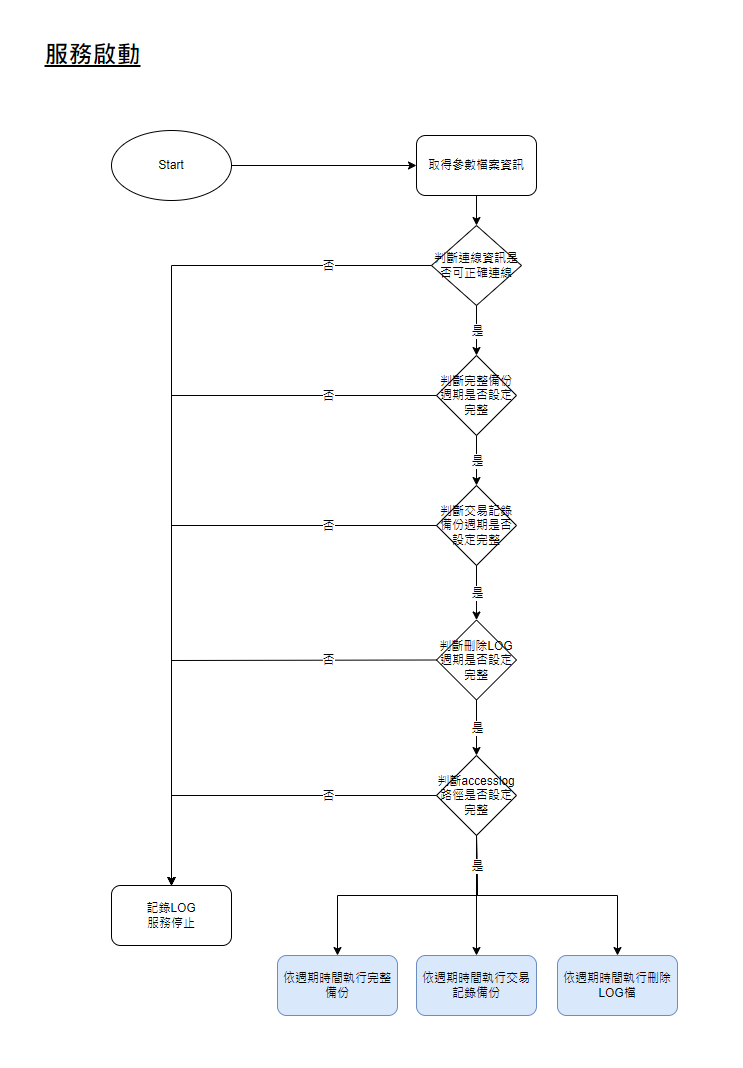
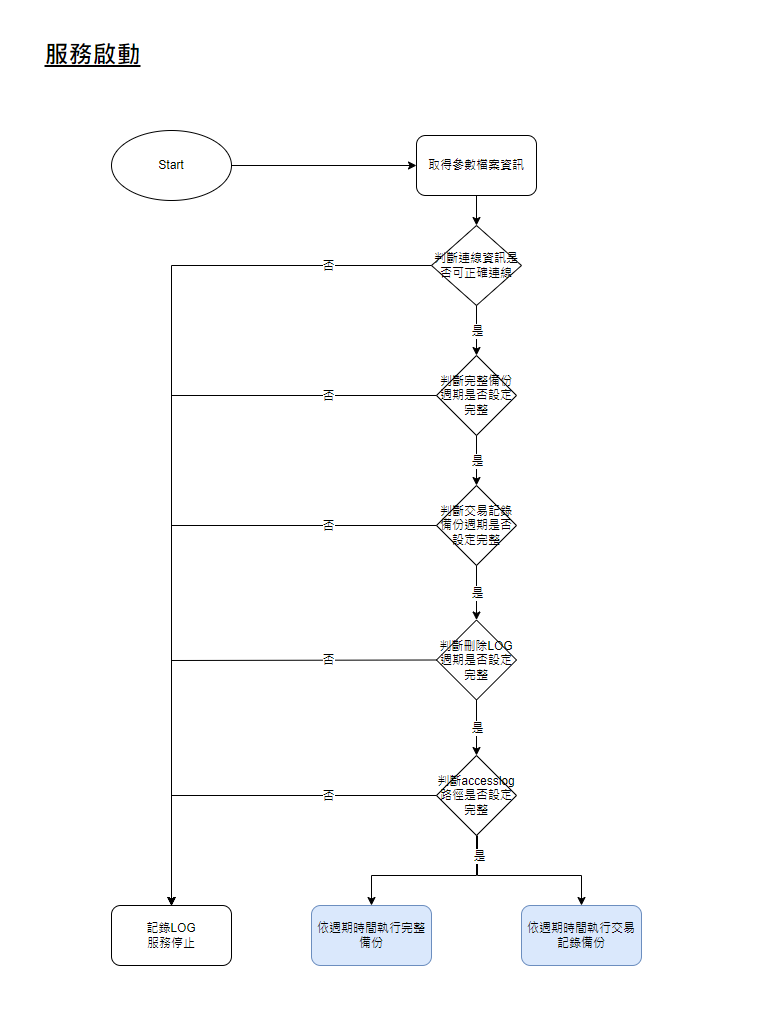
#9196 行動辦公雲資料庫備份服務

diff --git a/asus/ASUSMaintainTool/DBBackup/Config/README.md b/asus/ASUSMaintainTool/DBBackup/Config/README.md
@@ -14,7 +14,7 @@
             * db.connection.count
                 * 用途說明：資料庫連線數上限
                 * 注意事項：請設定 (資料庫備份路徑數\*2)+5 的連線數 (若 資料庫備份路徑數 = 5，則 連線數 = (5\*2)+5=15
-                    * 資料庫備份路徑數 = 【資料庫.WellWareProject/資料表.SYS_DBMAINTAINCHECKLIST/欄位.BACKUPPATH(備份路徑)】備份路徑去除重覆後的總數
+                    * 資料庫備份路徑數 =【資料庫.WellWareProject/資料表.SYS_DBMAINTAINCHECKLIST/欄位.BACKUPPATH(備份路徑)】備份路徑去除重覆後的總數
             * db.port
                 * 用途說明：資料庫連線port，預設 1433
             * db.account
@@ -28,7 +28,7 @@
             * backup.log.cycle
                 * 用途說明：資料庫交易記錄備份週期(單位=分鐘)，預設 10
             * log.keep.day
-                * 用途說明：log檔保留天數(單位=天)，預設 365
+                * 用途說明：log歷史記錄檔保留天數(單位=天)，當產生log歷史記錄檔時，即判斷log歷史記錄檔若超過保留天數則自動刪除，預設 365
             * log.accesslog.path
                 * 用途說明：accesslog檔案路徑
                 * 注意事項：資料夾路徑需存在於DB Server上，且資料夾分隔符號須注意逃脫字元，路徑格式範例: D:\\\logs 或 .\\\logs

diff --git a/asus/ASUSMaintainTool/DBBackup/SA/README.md b/asus/ASUSMaintainTool/DBBackup/SA/README.md
@@ -31,8 +31,6 @@
 
 ![DBBackup_DatabaseLog]
 
-![DBBackup_DeleteLog]
-
 [資料庫備份服務-啟動服務]:attachment/資料庫備份服務-啟動服務.png "資料庫備份服務-啟動服務"
 [資料庫備份服務-完整備份排程]:attachment/資料庫備份服務-完整備份排程.png "資料庫備份服務-完整備份排程"
 [資料庫備份服務-交易紀錄檔備份排程]:attachment/資料庫備份服務-交易紀錄檔備份排程.png "資料庫備份服務-交易紀錄檔備份排程"
@@ -40,4 +38,3 @@
 [DBBackup_ServiceStart]:attachment/DBBackup_ServiceStart.png "資料庫備份服務-服務啟動"
 [DBBackup_Database]:attachment/DBBackup_Database.png "資料庫備份服務-完整備份排程"
 [DBBackup_DatabaseLog]:attachment/DBBackup_DatabaseLog.png "資料庫備份服務-交易紀錄檔備份排程"
-[DBBackup_DeleteLog]:attachment/DBBackup_DeleteLog.png "資料庫備份服務-刪除log排程"
